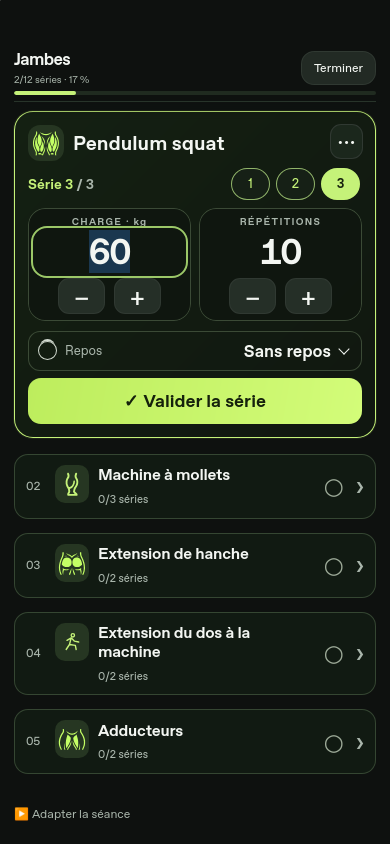
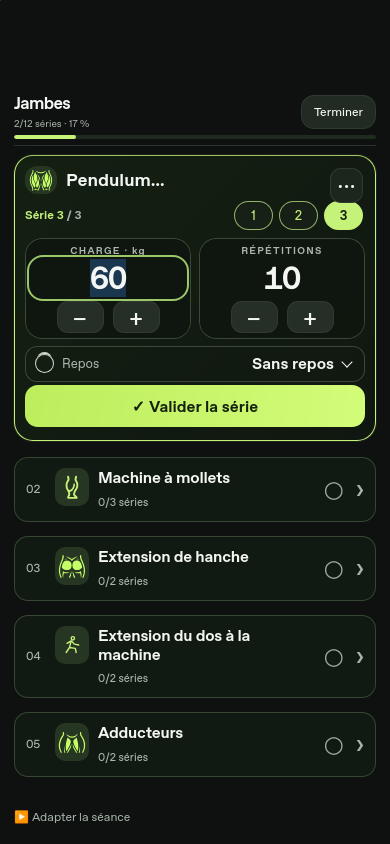
Respecter les zones sûres iPhone pendant la saisie
Conserver le logo, le bandeau et les commandes hors des zones sûres. Vérifier ensemble l’encoche, le décalage du viewport et le clavier ; compacter la saisie pour éviter tout recouvrement. Contrôles Chromium/WebKit et cache hors connexion réussis.

diff --git a/sw.js b/sw.js
@@ -1,1 +1,1 @@
-const CACHE='elan-shell-v53-live-workout';const FILES=['./live-workout.js','./live-workout.css','./design.css','./design-ui.js','./season-ranks.js','./assets/navigation/artwork.js','./','./index.html','./style.css','./app.js','./session-editor.js','./exercise-labels.js','./activity.js','./cardio-timer.js','./icons.js','./navigation.js','./presentation.js','./pictograms.js','./pictogram-source.js','./assets/muscles/haut-du-dos.svg','./assets/workouts/upper.svg','./assets/workouts/push.svg','./assets/workouts/pull.svg','./assets/workouts/jambes.svg','./assets/workouts/lower.svg','./assets/workouts/full-body.svg','./assets/muscles/erecteurs-du-rachis.svg','./assets/cardio/rameur.svg','./assets/cardio/tapis_de_course.svg','./assets/cardio/velo.svg','./assets/cardio/velo_elliptique.svg','./achievements.js','./feedback.js','./identity.js','./exercise-sheet.js','./radar.js','./radar-ui.js','./data.js','./tracking.js','./muscles.js','./performance.js','./volume.js','./volume-list.js','./groups.js','./rest.js','./cloud-config.js','./cloud-service.js','./account-store.js','./social-ui.js','./social-presenter.js','./community-ui.js','./trophy-room.js','./workout-completion.js','./friend-feed.js','./public-rankings.js','./notifications.js','./personal-records.js','./social-catalogue.js','./vendor/supabase.js','./catalogue.js','./programming.js','./programme-review.js','./planning.js','./planner-ui.js','./manifest.webmanifest','./icon.svg','./assets/social/icons/friends.svg','./assets/social/icons/record.svg','./assets/social/badges/sessions_total_1.svg','./assets/social/badges/sessions_total_10.svg','./assets/social/badges/sessions_total_25.svg','./assets/social/badges/sessions_total_50.svg','./assets/social/badges/sessions_total_100.svg','./assets/social/badges/sessions_total_250.svg','./assets/social/badges/sets_total_100.svg','./assets/social/badges/sets_total_500.svg','./assets/social/badges/sets_total_1000.svg','./assets/social/badges/sets_total_2500.svg','./assets/social/badges/sets_total_5000.svg','./assets/social/badges/sets_total_10000.svg','./assets/social/badges/tonnage_total_10.svg','./assets/social/badges/tonnage_total_50.svg','./assets/social/badges/tonnage_total_100.svg','./assets/social/badges/tonnage_total_250.svg','./assets/social/badges/tonnage_total_500.svg','./assets/social/badges/tonnage_total_1000.svg','./assets/social/badges/sessions_week_2.svg','./assets/social/badges/sessions_week_3.svg','./assets/social/badges/sessions_week_4.svg','./assets/social/badges/sessions_week_5.svg','./assets/social/badges/sets_week_25.svg','./assets/social/badges/sets_week_50.svg','./assets/social/badges/sets_week_75.svg','./assets/social/badges/sets_week_100.svg','./assets/social/badges/tonnage_week_5.svg','./assets/social/badges/tonnage_week_10.svg','./assets/social/badges/tonnage_week_25.svg','./assets/social/badges/tonnage_week_50.svg','./assets/social/badges/tonnage_week_75.svg','./assets/social/badges/tonnage_week_100.svg','./assets/social/badges/streak_weeks_4.svg','./assets/social/badges/streak_weeks_8.svg','./assets/social/badges/streak_weeks_13.svg','./assets/social/badges/streak_weeks_26.svg','./assets/social/badges/streak_weeks_39.svg','./assets/social/badges/streak_weeks_52.svg','./assets/social/badges/active_weeks_10.svg','./assets/social/badges/active_weeks_25.svg','./assets/social/badges/active_weeks_50.svg','./assets/social/badges/active_weeks_100.svg','./assets/social/badges/active_weeks_150.svg','./assets/social/badges/active_weeks_250.svg','./assets/social/badges/records_total_1.svg','./assets/social/badges/records_total_5.svg','./assets/social/badges/records_total_10.svg','./assets/social/badges/records_total_25.svg','./assets/social/badges/records_total_50.svg','./assets/social/badges/records_total_100.svg','./assets/social/badges/records_exercises_1.svg','./assets/social/badges/records_exercises_3.svg','./assets/social/badges/records_exercises_5.svg','./assets/social/badges/records_exercises_10.svg','./assets/social/badges/records_exercises_15.svg','./assets/social/badges/records_exercises_25.svg','./assets/social/badges/personal_challenges_1.svg','./assets/social/badges/personal_challenges_5.svg','./assets/social/badges/personal_challenges_10.svg','./assets/social/badges/personal_challenges_25.svg','./assets/social/badges/personal_challenges_50.svg','./assets/social/badges/personal_challenges_100.svg','./assets/social/badges/shared_challenges_1.svg','./assets/social/badges/shared_challenges_5.svg','./assets/social/badges/shared_challenges_10.svg','./assets/social/badges/shared_challenges_25.svg','./assets/social/badges/shared_challenges_50.svg','./assets/social/badges/shared_challenges_100.svg'];self.addEventListener('install',event=>{event.waitUntil(caches.open(CACHE).then(c=>c.addAll(FILES.map(url=>new Request(url,{cache:'reload'})))).then(()=>self.skipWaiting()))});self.addEventListener('activate',event=>event.waitUntil(caches.keys().then(keys=>Promise.all(keys.filter(k=>k!==CACHE).map(k=>caches.delete(k)))).then(()=>self.clients.claim())));self.addEventListener('fetch',event=>{if(event.request.method!=='GET'||new URL(event.request.url).origin!==location.origin)return;event.respondWith(fetch(new Request(event.request,{cache:'no-cache'})).then(r=>{if(r.ok){const copy=r.clone();caches.open(CACHE).then(c=>c.put(event.request,copy))}return r}).catch(()=>caches.match(event.request).then(r=>r||(event.request.mode==='navigate'?caches.match('./index.html'):Response.error()))))});
+const CACHE='elan-shell-v54-live-workout-safe-areas';const FILES=['./live-workout.js','./live-workout.css','./design.css','./design-ui.js','./season-ranks.js','./assets/navigation/artwork.js','./','./index.html','./style.css','./app.js','./session-editor.js','./exercise-labels.js','./activity.js','./cardio-timer.js','./icons.js','./navigation.js','./presentation.js','./pictograms.js','./pictogram-source.js','./assets/muscles/haut-du-dos.svg','./assets/workouts/upper.svg','./assets/workouts/push.svg','./assets/workouts/pull.svg','./assets/workouts/jambes.svg','./assets/workouts/lower.svg','./assets/workouts/full-body.svg','./assets/muscles/erecteurs-du-rachis.svg','./assets/cardio/rameur.svg','./assets/cardio/tapis_de_course.svg','./assets/cardio/velo.svg','./assets/cardio/velo_elliptique.svg','./achievements.js','./feedback.js','./identity.js','./exercise-sheet.js','./radar.js','./radar-ui.js','./data.js','./tracking.js','./muscles.js','./performance.js','./volume.js','./volume-list.js','./groups.js','./rest.js','./cloud-config.js','./cloud-service.js','./account-store.js','./social-ui.js','./social-presenter.js','./community-ui.js','./trophy-room.js','./workout-completion.js','./friend-feed.js','./public-rankings.js','./notifications.js','./personal-records.js','./social-catalogue.js','./vendor/supabase.js','./catalogue.js','./programming.js','./programme-review.js','./planning.js','./planner-ui.js','./manifest.webmanifest','./icon.svg','./assets/social/icons/friends.svg','./assets/social/icons/record.svg','./assets/social/badges/sessions_total_1.svg','./assets/social/badges/sessions_total_10.svg','./assets/social/badges/sessions_total_25.svg','./assets/social/badges/sessions_total_50.svg','./assets/social/badges/sessions_total_100.svg','./assets/social/badges/sessions_total_250.svg','./assets/social/badges/sets_total_100.svg','./assets/social/badges/sets_total_500.svg','./assets/social/badges/sets_total_1000.svg','./assets/social/badges/sets_total_2500.svg','./assets/social/badges/sets_total_5000.svg','./assets/social/badges/sets_total_10000.svg','./assets/social/badges/tonnage_total_10.svg','./assets/social/badges/tonnage_total_50.svg','./assets/social/badges/tonnage_total_100.svg','./assets/social/badges/tonnage_total_250.svg','./assets/social/badges/tonnage_total_500.svg','./assets/social/badges/tonnage_total_1000.svg','./assets/social/badges/sessions_week_2.svg','./assets/social/badges/sessions_week_3.svg','./assets/social/badges/sessions_week_4.svg','./assets/social/badges/sessions_week_5.svg','./assets/social/badges/sets_week_25.svg','./assets/social/badges/sets_week_50.svg','./assets/social/badges/sets_week_75.svg','./assets/social/badges/sets_week_100.svg','./assets/social/badges/tonnage_week_5.svg','./assets/social/badges/tonnage_week_10.svg','./assets/social/badges/tonnage_week_25.svg','./assets/social/badges/tonnage_week_50.svg','./assets/social/badges/tonnage_week_75.svg','./assets/social/badges/tonnage_week_100.svg','./assets/social/badges/streak_weeks_4.svg','./assets/social/badges/streak_weeks_8.svg','./assets/social/badges/streak_weeks_13.svg','./assets/social/badges/streak_weeks_26.svg','./assets/social/badges/streak_weeks_39.svg','./assets/social/badges/streak_weeks_52.svg','./assets/social/badges/active_weeks_10.svg','./assets/social/badges/active_weeks_25.svg','./assets/social/badges/active_weeks_50.svg','./assets/social/badges/active_weeks_100.svg','./assets/social/badges/active_weeks_150.svg','./assets/social/badges/active_weeks_250.svg','./assets/social/badges/records_total_1.svg','./assets/social/badges/records_total_5.svg','./assets/social/badges/records_total_10.svg','./assets/social/badges/records_total_25.svg','./assets/social/badges/records_total_50.svg','./assets/social/badges/records_total_100.svg','./assets/social/badges/records_exercises_1.svg','./assets/social/badges/records_exercises_3.svg','./assets/social/badges/records_exercises_5.svg','./assets/social/badges/records_exercises_10.svg','./assets/social/badges/records_exercises_15.svg','./assets/social/badges/records_exercises_25.svg','./assets/social/badges/personal_challenges_1.svg','./assets/social/badges/personal_challenges_5.svg','./assets/social/badges/personal_challenges_10.svg','./assets/social/badges/personal_challenges_25.svg','./assets/social/badges/personal_challenges_50.svg','./assets/social/badges/personal_challenges_100.svg','./assets/social/badges/shared_challenges_1.svg','./assets/social/badges/shared_challenges_5.svg','./assets/social/badges/shared_challenges_10.svg','./assets/social/badges/shared_challenges_25.svg','./assets/social/badges/shared_challenges_50.svg','./assets/social/badges/shared_challenges_100.svg'];self.addEventListener('install',event=>{event.waitUntil(caches.open(CACHE).then(c=>c.addAll(FILES.map(url=>new Request(url,{cache:'reload'})))).then(()=>self.skipWaiting()))});self.addEventListener('activate',event=>event.waitUntil(caches.keys().then(keys=>Promise.all(keys.filter(k=>k!==CACHE).map(k=>caches.delete(k)))).then(()=>self.clients.claim())));self.addEventListener('fetch',event=>{if(event.request.method!=='GET'||new URL(event.request.url).origin!==location.origin)return;event.respondWith(fetch(new Request(event.request,{cache:'no-cache'})).then(r=>{if(r.ok){const copy=r.clone();caches.open(CACHE).then(c=>c.put(event.request,copy))}return r}).catch(()=>caches.match(event.request).then(r=>r||(event.request.mode==='navigate'?caches.match('./index.html'):Response.error()))))});

diff --git a/live-workout.css b/live-workout.css
@@ -1,14 +1,14 @@
 /* Live session: supplied reference. No rules outside the workout screen/dialog. */
 .work-shell{max-width:900px;padding:14px 14px calc(100px + env(safe-area-inset-bottom));background:var(--bg)}
 .work-shell>header{margin-bottom:12px;min-height:38px}.work-shell .brand{font-size:27px}.work-shell .profile-avatar{width:38px;height:38px}
-.live-workout{min-width:0}.live-session-header{position:sticky;top:calc(var(--visible-top,0px) + env(safe-area-inset-top));z-index:15;height:var(--live-header-space,152px);pointer-events:none;margin-bottom:12px;overflow:visible}
+.live-workout{min-width:0}.live-session-header{position:sticky;top:calc(var(--visible-top,0px) + var(--live-safe-top,env(safe-area-inset-top)));z-index:15;height:var(--live-header-space,152px);pointer-events:none;margin-bottom:12px;overflow:visible}
 .live-header-panel{pointer-events:auto;background:var(--bg);padding:7px 0 9px;border-bottom:1px solid #28342a;box-shadow:0 7px 12px #0e100f99}
 .work-shell .live-session-heading{display:flex;flex-wrap:nowrap;gap:9px;align-items:center;margin:0 0 9px}.live-session-name{flex:1;min-width:0}.work-shell .live-session-name .eyebrow{font-size:9px;letter-spacing:1px;margin:0 0 3px}.work-shell .live-session-name h1{font-size:25px;line-height:1.1;margin:0;letter-spacing:-.7px;overflow-wrap:anywhere}
 .work-shell .live-session-heading button{padding:8px 11px;min-height:40px;font-size:13px;border-radius:13px;flex:none}.work-shell .live-session-heading .live-back{padding:3px 10px;font-size:29px;min-width:34px}.work-shell .live-session-heading .cancel-session{width:36px;min-width:36px;padding:4px;font-size:27px;color:#ffac9d}
 .live-session-stats{display:grid;grid-template-columns:1fr 1fr 1.15fr;border:1px solid #384a36;border-radius:13px;padding:10px 4px;margin:0 0 10px;font-size:11px;line-height:1.2}.live-session-stats>span{display:flex;align-items:center;justify-content:center;gap:4px;border-left:1px solid var(--line);white-space:nowrap}.live-session-stats>span:first-child{border-left:0}.live-session-stats .ico{width:17px;height:17px;color:var(--accent);flex:none}.live-session-stats b{font-weight:700}
 .live-progress-row{display:flex;align-items:center;gap:10px;font-size:11px;font-weight:600;min-height:22px}.live-progress-row .session-tally{white-space:nowrap;font-size:12px}.live-progress-row progress{flex:1;min-width:20px;appearance:none;border:1px solid #364334;width:100%;height:7px;border-radius:12px;background:#202b20;accent-color:var(--accent);overflow:hidden}.live-progress-row progress::-webkit-progress-bar{background:#202b20}.live-progress-row progress::-webkit-progress-value{background:var(--accent);border-radius:12px}.live-progress-row progress::-moz-progress-bar{background:var(--accent)}.live-progress-percent{white-space:nowrap}.live-compact-progress{display:none}
 .is-compact .live-header-panel{padding:5px 0 6px}.work-shell .is-compact .live-session-heading{margin:0 0 5px;gap:8px}.is-compact .live-session-stats,.is-compact .eyebrow,.is-compact .live-back,.is-compact .cancel-session,.is-compact .live-progress-row .session-tally,.is-compact .live-progress-percent{display:none}.work-shell .is-compact .live-session-name h1{font-size:17px}.work-shell .is-compact .live-session-heading button{min-height:34px;font-size:12px;padding:7px 12px}.is-compact .live-compact-progress{display:block;font-size:10px;color:var(--muted);margin-top:3px}.is-compact .live-progress-row{min-height:4px}.is-compact .live-progress-row progress{height:4px;border:0}
-html.live-workout-view{scroll-padding-top:calc(var(--live-header-height,160px) + 12px + env(safe-area-inset-top));scroll-padding-bottom:100px}.work-shell #exercise-entry{scroll-margin-top:calc(var(--live-header-height,160px) + 12px + env(safe-area-inset-top))}.work-shell input,.work-shell select,.work-shell .validate-btn{scroll-margin-block:12px}
+html.live-workout-view{scroll-padding-top:calc(var(--live-header-height,160px) + 12px + var(--live-safe-top,env(safe-area-inset-top)));scroll-padding-bottom:100px}.work-shell #exercise-entry{scroll-margin-top:calc(var(--live-header-height,160px) + 12px + var(--live-safe-top,env(safe-area-inset-top)))}.work-shell input,.work-shell select,.work-shell .validate-btn{scroll-margin-block:12px}
 .work-shell .work-feedback-slot{margin:0;min-height:0}.work-shell .work-feedback-slot:has(.set-feedback),.work-shell .work-feedback-slot:has(.cardio-return){margin-bottom:8px}.work-shell .session-exercises{gap:7px}.work-shell .card.exercise-active{position:relative;padding:13px;border:1.5px solid var(--accent);border-radius:19px;margin:0 0 9px;background:linear-gradient(135deg,#142012,#101710);box-shadow:0 0 0 1px #c5f27915}
 .work-shell .live-exercise-heading{padding-right:36px;margin-bottom:11px}.work-shell .live-exercise-heading h2{margin:0;line-height:1.15;font-size:22px;letter-spacing:-.4px}.work-shell .live-exercise-heading .exercise-title-link{display:flex;align-items:center;gap:9px;min-height:40px}.work-shell .live-exercise-heading .exercise-title-link>span:last-child{min-width:0;overflow-wrap:anywhere}.work-shell .live-exercise-heading .exercise-icon{width:44px;height:44px;min-width:44px;margin:0;padding:4px;border-radius:12px}.work-shell .live-exercise-heading .exercise-icon .muscle-icon{width:36px;height:36px}.work-shell .live-muscles{padding-left:53px;margin:-2px 0 0;color:var(--muted);font-size:11px;line-height:1.3;overflow-wrap:anywhere}
 .live-series{display:flex;align-items:center;gap:8px;justify-content:space-between;margin:9px 0 11px;min-width:0}.live-series>strong{font-size:14px;white-space:nowrap;color:var(--accent);font-weight:650}.live-series em{font-style:normal}.live-series>strong>span{color:var(--muted)}.live-series-buttons{display:flex;gap:6px;min-width:0;overflow-x:auto;padding:2px;scrollbar-width:thin}.work-shell .live-series-button{padding:4px 8px;font-size:13px;min-height:32px;min-width:39px;border-radius:22px;background:#162016;border-color:#3c4c36;flex:none}.work-shell .live-series-button.current{background:var(--accent);border-color:var(--accent);color:#17220f;font-weight:700}.work-shell .live-series-button.recorded:not(.current){color:var(--accent);border-color:#91b46a}.work-shell .live-series-button:disabled{opacity:.65}
@@ -33,3 +33,8 @@ body.entry-focused .work-shell .live-exercise-options{display:block}.keyboard-op
 .work-shell .live-exercise-heading .exercise-title-link>span:last-child,.work-shell .exercise-summary .live-row-name{display:-webkit-box;-webkit-line-clamp:2;-webkit-box-orient:vertical;overflow:hidden}
 /* Every grouped exercise keeps its SVG, including three- to eight-member chains. */
 .work-shell .exercise-summary .group-exercise-icons{display:grid;grid-template-columns:repeat(3,22px);gap:2px;max-width:70px;top:50%;transform:translateY(-50%)}.work-shell .exercise-summary .group-exercise-icons .exercise-icon{width:22px;min-width:22px;height:24px;padding:2px}.work-shell .exercise-summary .group-exercise-icons .muscle-icon{width:18px;height:20px}.work-shell .exercise-summary:has(.group-exercise-icons[data-large="true"]) .exercise-open{min-height:80px}.work-shell .exercise-summary:has(.group-exercise-icons>.exercise-icon:nth-child(7)) .exercise-open{min-height:100px}
+
+/* Keep the global header and landscape edges outside the iPhone unsafe area too. */
+.work-shell{padding-top:max(14px,var(--live-safe-top,env(safe-area-inset-top)));padding-left:max(var(--live-gutter,14px),var(--live-safe-left,env(safe-area-inset-left)));padding-right:max(var(--live-gutter,14px),var(--live-safe-right,env(safe-area-inset-right)))}@media(max-width:360px){.work-shell{--live-gutter:10px}}
+/* Leave room for both the iPhone cutout and a panned, keyboard-sized viewport. */
+.keyboard-open .work-shell .live-strength-card{padding:10px}.keyboard-open .work-shell .live-exercise-heading h2{font-size:18px}.keyboard-open .work-shell .live-exercise-heading .exercise-title-link{min-height:28px}.keyboard-open .work-shell .live-exercise-heading .exercise-icon{width:28px;height:28px;min-width:28px;padding:2px}.keyboard-open .work-shell .live-exercise-heading .muscle-icon{width:24px;height:24px}.keyboard-open .work-shell .live-exercise-heading .exercise-title-link>span:last-child{-webkit-line-clamp:1}.keyboard-open .work-shell .live-strength-card .number-box{padding:5px}.keyboard-open .work-shell .live-strength-card .number-box input{font-size:32px;min-height:36px}.keyboard-open .work-shell .live-strength-card .number-box button{min-height:32px;font-size:23px}.keyboard-open .work-shell .live-strength-card .entry{margin-bottom:7px}.keyboard-open .work-shell .live-series-button{min-height:28px}.keyboard-open .work-shell .live-series>strong{font-size:12px}.keyboard-open .work-shell .live-strength-card .validate-btn{min-height:42px;font-size:16px}.keyboard-open .work-shell .next-rest{min-height:35px;margin-bottom:6px}.keyboard-open .work-shell .next-rest select{height:28px;min-height:28px;font-size:16px}

diff --git a/docs/SEANCE-EN-COURS-IMPLEMENTATION.md b/docs/SEANCE-EN-COURS-IMPLEMENTATION.md
@@ -42,7 +42,8 @@ Aucun changement de format, aucune migration Supabase et aucune modification des
 - Repos automatique, réduction, réouverture et arrêt ; délai inchangé après correction.
 - Séries supplémentaires, rechargement et reprise, fin de séance confirmée ou annulée et conservation du modèle original.
 - Noms de séance et d’exercice longs, débordement horizontal et hauteur limitée de l’en-tête compact.
-- Viewport simulant un clavier iOS : hauteur visible 390 px, décalage supérieur 45 px, navigation masquée, champ dégagé et validation ne recouvrant ni les +/− ni le repos.
+- Zones sûres simulées : 44 px en haut et 22 px sur les côtés ; le logo et le bandeau restent dégagés.
+- Viewport simulant un clavier iOS : hauteur visible 390 px, décalage supérieur 45 px et zone sûre supérieure 44 px simultanés, navigation masquée, champ dégagé et validation ne recouvrant ni les +/− ni le repos.
 - Non-régression : groupes A-B-A-B-A, tri-sets et modes tournants, corrections, stockage/retry/double validation, import/export, historique, statistiques, communauté et cache hors connexion.
 
 Les [captures de contrôle](verification-seance-en-cours/) utilisent des données de test locales. **Safari sur iPhone physique et le mode installé iOS n’étaient pas disponibles.** WebKit Linux et la simulation du viewport ne permettent pas de déclarer le clavier iOS réel testé.
